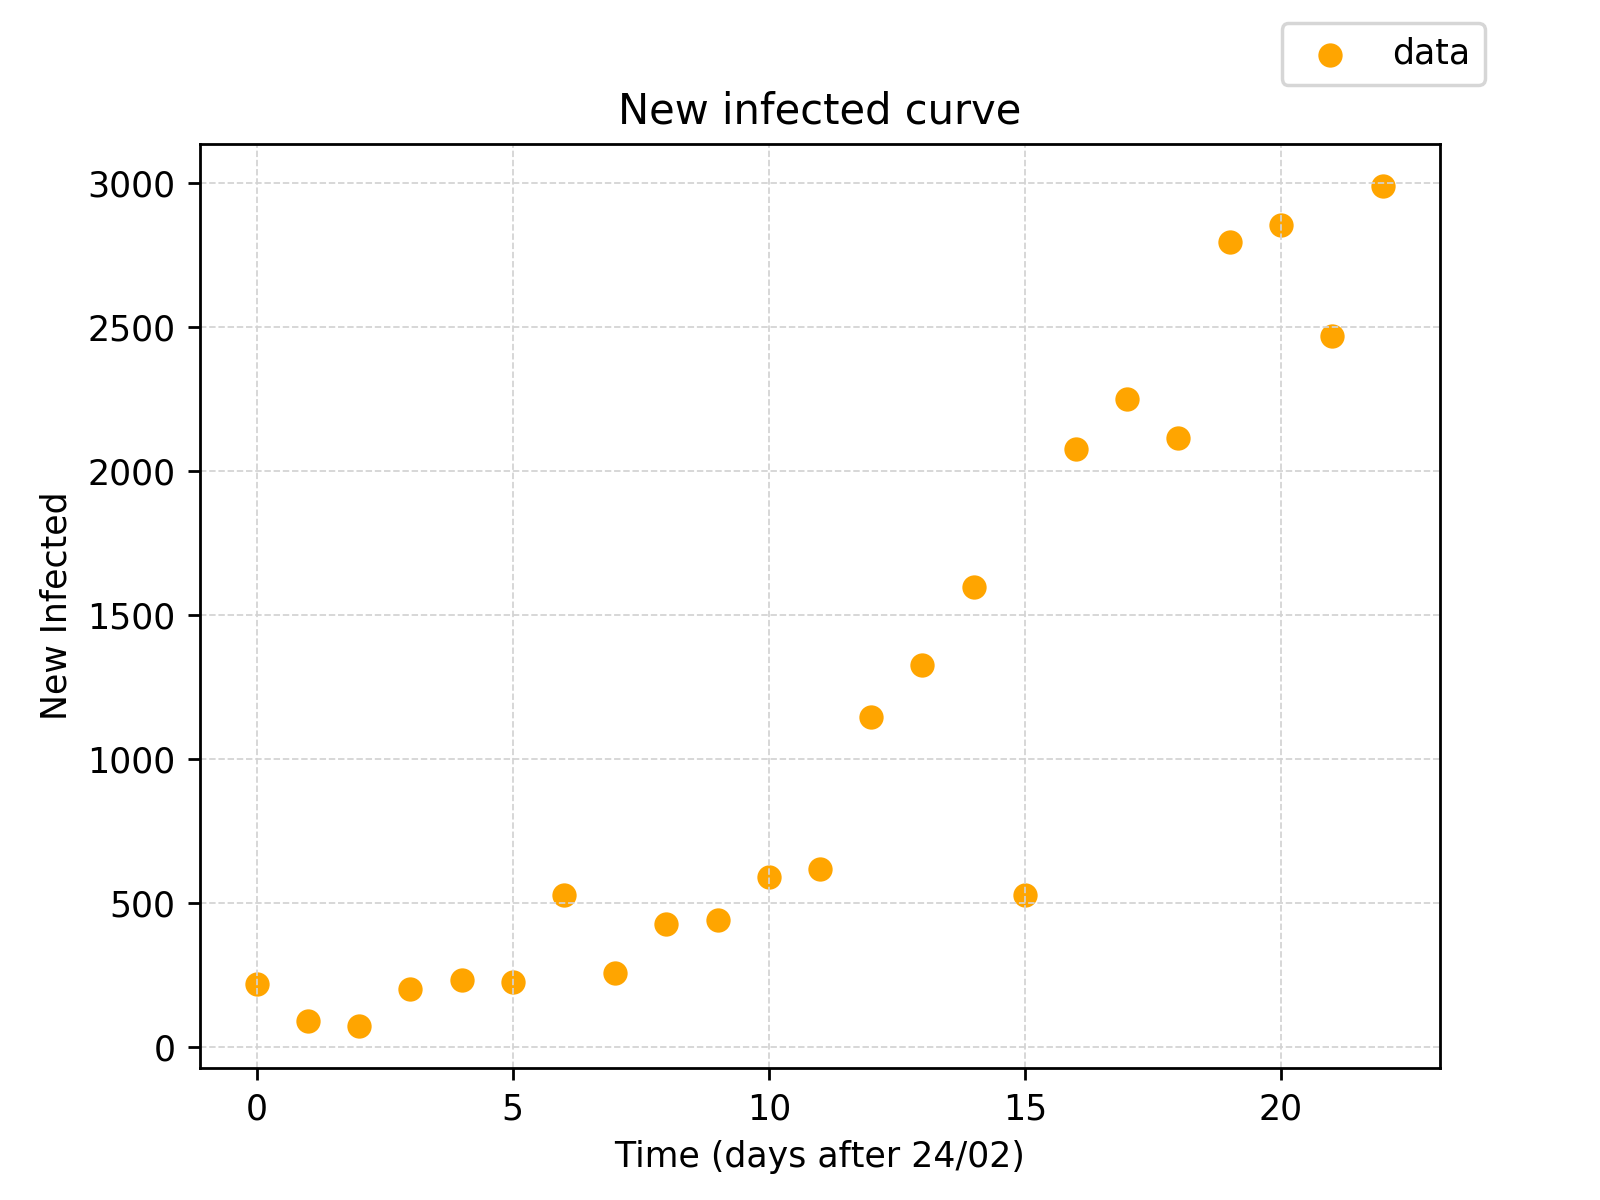
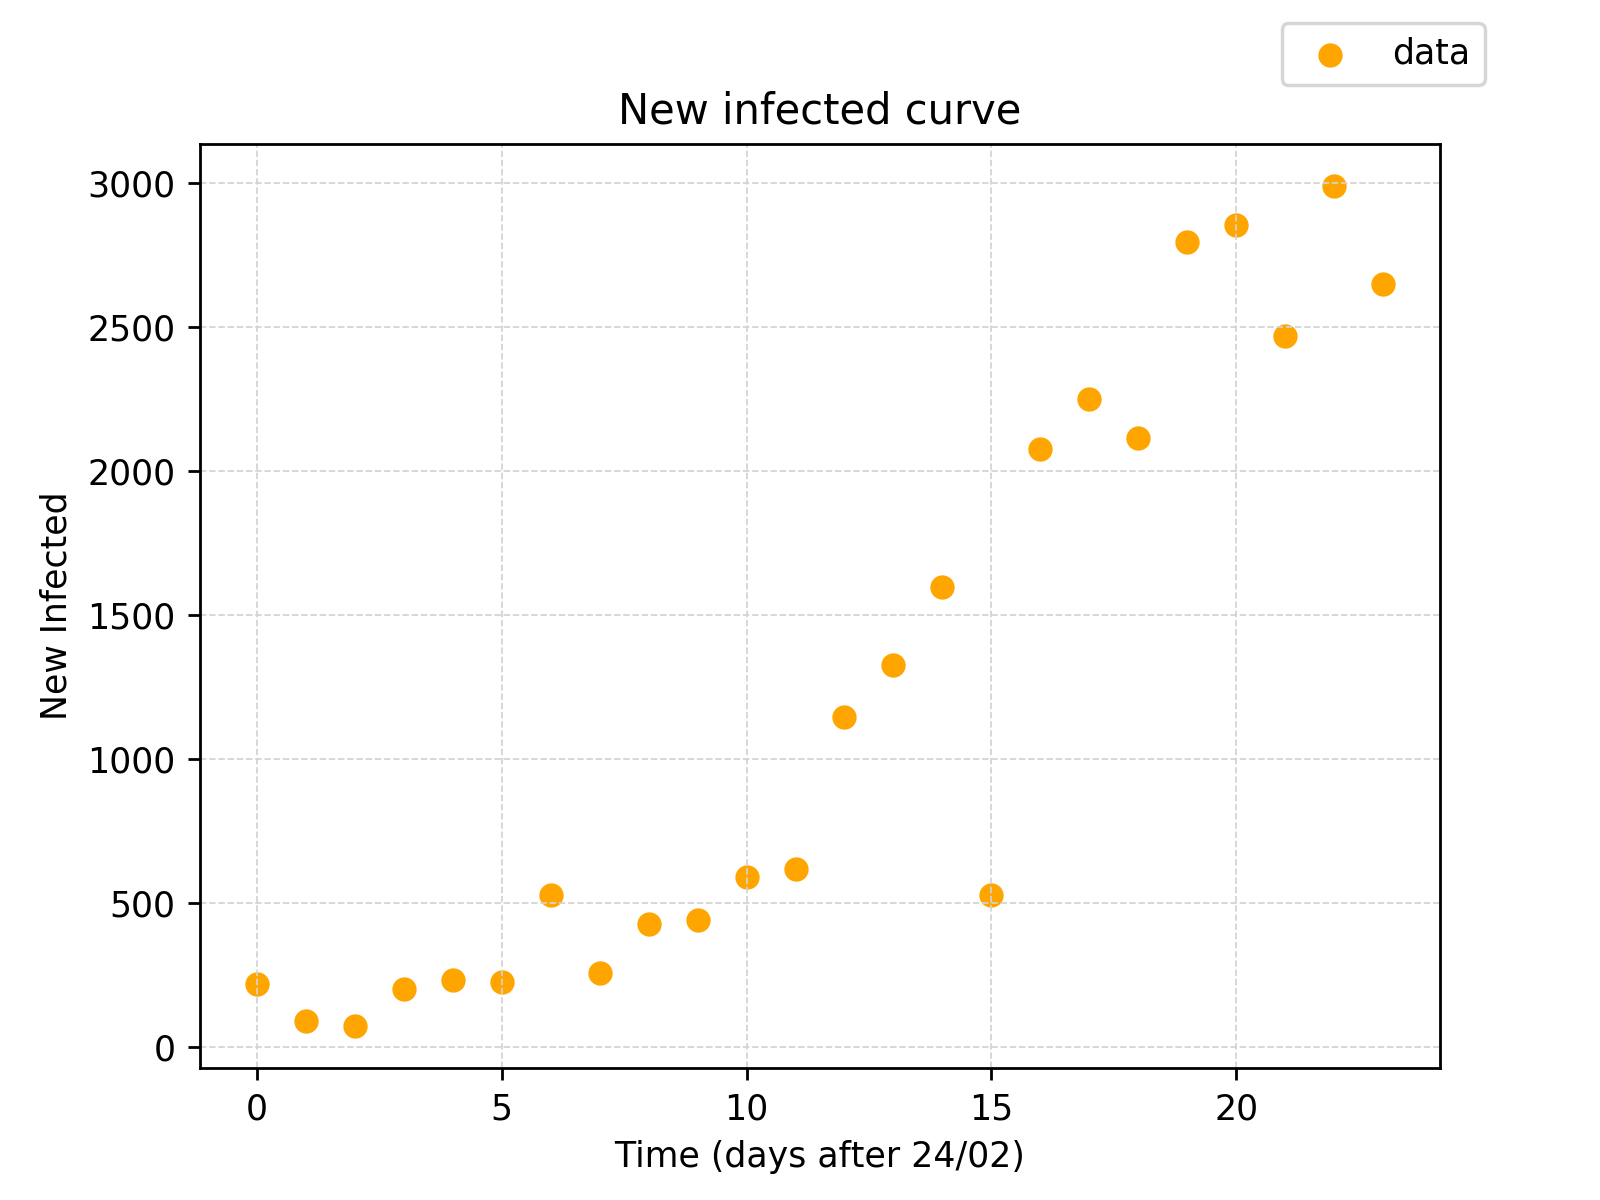
updated to 18th march

diff --git a/plotscatter.py b/plotscatter.py
@@ -71,7 +71,7 @@ regressor = LinearRegression()
 #regressor = Lasso()
 
 # train on data without last few days
-minus_last_days_to_skip = -4
+minus_last_days_to_skip = -5
 x_train = x[:minus_last_days_to_skip]
 x_test = x[minus_last_days_to_skip:]
 y_train = y[:minus_last_days_to_skip]
@@ -116,10 +116,10 @@ plt.savefig('./curves/epidemic-curve-fit-TRAIN-2.png', dpi=250)
 plt.clf()
 
 last = len(dataset['totale_casi'])
-print('\nPREDICTION FOR DAY',last)
+print('\nEXPONENTIAL PREDICTION FOR DAY',last)
 pred = regressor.predict([[last]])
 print(pred)
-print('number of predicted infected', np.exp(pred))
+print('number of predicted cases', np.exp(pred))
 
 ################################################################################################################################
 
